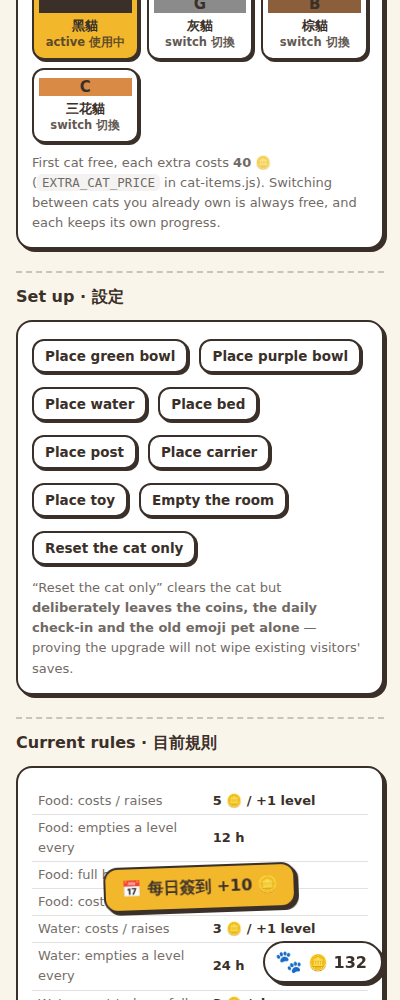
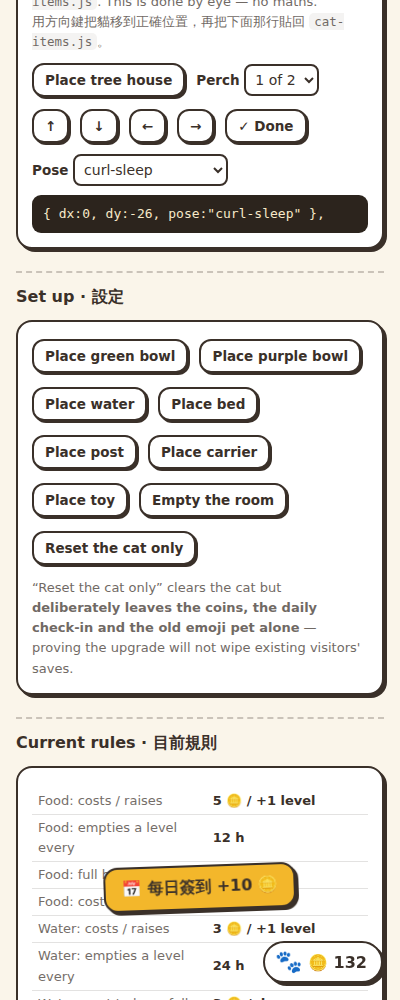
Funding statement sitewide, social links, hide placeholder-emoji foods
FUNDING STATEMENT
Adds the required acknowledgement to every page in a bordered, full
opacity bar rather than the existing faded 11.5px footer text, since it
is a compliance statement and the brief was that it be visible. Injected
from pet-shared.js so there is one edit point and it reaches any page
added later. The Chinese wording renders in both language modes because
it is prescribed text, not a translation; English is added alongside it
only in English mode. Text lives in foods-data.js with a note not to
reword the Chinese without checking the grant paperwork.

SOCIAL LINKS
SOCIAL list in foods-data.js. Entries with an empty url hide themselves,
matching the existing cookbook-link pattern, so they can be filled in
one at a time without ever showing a dead link. All four ship empty
pending the real addresses. Clicks fire the existing analytics hook.

Positioning bug found and fixed: the bar used a trailing margin-bottom
for clearance, which collapses out of the document, so at 430x900 the
floating pet button sat on top of the LINE link and made it
unclickable. Replaced with a real spacer element, which always reserves
its height. Verified no link is covered at 390, 430 or 900 wide.

HIDING FOODS WITHOUT A REAL EMOJI
Adds an optional `hidden` flag: the food stays in the master list with
its data and pairings intact but is shown nowhere. Applied to the four
foods represented by geometric shapes rather than food: turnip cake
[…]

Changed region(s): [[0.06, 0.0, 0.93, 0.248], [0.09, 0.961, 0.18, 0.992]]

diff --git a/foods-data.js b/foods-data.js
@@ -57,6 +57,14 @@ const VENUES = [
              auto-generates one from the nutrition numbers.
    tip       OPTIONAL one-line fun fact shown after a 營養大對決
              question that uses this food.
+   hidden    OPTIONAL. Set  hidden: true  to keep a food in this list but
+             STOP SHOWING IT anywhere in either app. Its data stays here
+             untouched, so nothing else breaks, and deleting that one
+             line brings it straight back.
+             Currently used for foods that have no suitable emoji — a
+             plain coloured square standing in for a food looks
+             unfinished, so those foods wait here until they have a
+             proper picture.
    --------------------------------------------------------------- */
 const FOODS = [
 
@@ -88,6 +96,9 @@ const FOODS = [
     wholeGrain: true },
 
   { id: "luobogao",  zh: "蘿蔔糕",     en: "Turnip cake", emoji: "◻",
+    /* HIDDEN: ◻ is a plain white square — there is no turnip-cake emoji.
+       Delete the `hidden` line below to show this food again. */
+    hidden: true,
     role: "main", venues: ["breakfast"],
     nutrition: { protein: 4,  fiber: 1.5, sodium: 500,  calcium: 40 },
     wholeGrain: false, serving: "2片" },
@@ -203,16 +214,25 @@ const FOODS = [
     wholeGrain: false },
 
   { id: "dougan",    zh: "豆干",       en: "Dried tofu", emoji: "🟫",
+    /* HIDDEN: 🟫 is a plain brown square — there is no dried-tofu emoji.
+       Delete the `hidden` line below to show this food again. */
+    hidden: true,
     role: "addon", venues: ["noodle"],
     nutrition: { protein: 10, fiber: 1,   sodium: 300,  calcium: 150 },
     wholeGrain: false },
 
   { id: "seaweed",   zh: "海帶",       en: "Seaweed", emoji: "🪸",
+    /* HIDDEN: 🪸 is CORAL, not seaweed, and is new enough to show as an empty box on older phones.
+       Delete the `hidden` line below to show this food again. */
+    hidden: true,
     role: "addon", venues: ["noodle"],
     nutrition: { protein: 2,  fiber: 2,   sodium: 350,  calcium: 80 },
     wholeGrain: false },
 
   { id: "tofu",      zh: "嫩豆腐",     en: "Soft tofu", emoji: "⬜",
+    /* HIDDEN: ⬜ is a plain white square — there is no tofu emoji.
+       Delete the `hidden` line below to show this food again. */
+    hidden: true,
     role: "addon", venues: ["noodle", "conv"],
     nutrition: { protein: 8,  fiber: 0.5, sodium: 30,   calcium: 120 },
     wholeGrain: false },
@@ -304,6 +324,59 @@ const SHARE = {
   hashtag: "#外食也能吃得好",   /* ✏ EDIT HERE: your campaign hashtag */
   appName: { zh: "校園小夥伴", en: "Campus Buddy" },
 };
+
+
+/* ---------------------------------------------------------------
+   FUNDING STATEMENT — shown prominently on EVERY page.
+   ---------------------------------------------------------------
+   This is the required funding acknowledgement. It appears in a
+   bordered bar at the bottom of every page, at full opacity — not as
+   faded small print — because it is a compliance statement, not a
+   footnote.
+
+   The Chinese wording shows in BOTH language modes, because that exact
+   sentence is the official required text. The English line is an added
+   courtesy translation, shown only in English mode.
+
+   ⚠ Do not reword the Chinese line without checking with whoever
+   handles the grant paperwork. It is prescribed wording.
+   --------------------------------------------------------------- */
+const FUNDING = {
+  zh: "經費由國民健康署運用菸品健康福利捐支應",
+  en: "Funded by the Health Promotion Administration, Ministry of Health and Welfare, through the Tobacco Health and Welfare Surcharge.",
+};
+
+
+/* ---------------------------------------------------------------
+   SOCIAL MEDIA LINKS — shown next to the funding statement.
+   ---------------------------------------------------------------
+   ✏ EDIT HERE. Put your real address inside the quotes after url:.
+
+   A link whose url is still "" is HIDDEN automatically, so an
+   unfinished entry never shows as a dead link. Fill them in one at a
+   time as the accounts go live.
+
+   To ADD one: copy a line, change the label and the url.
+   To REMOVE one: delete its line (or just empty its url).
+   --------------------------------------------------------------- */
+const SOCIAL = [
+  { id: "instagram", label: "Instagram", icon: "📷", url: "" },  /* e.g. "https://www.instagram.com/youraccount" */
+  { id: "facebook",  label: "Facebook",  icon: "👍", url: "" },
+  { id: "line",      label: "LINE",      icon: "💬", url: "" },  /* e.g. your LINE official account */
+  { id: "youtube",   label: "YouTube",   icon: "▶", url: "" },
+];
+
+
+/* ---------------------------------------------------------------
+   Helper: the foods that should actually be SHOWN to visitors.
+   ---------------------------------------------------------------
+   A food marked  hidden: true  stays in the master list above (so its
+   data, pairings and nutrition are all preserved) but never appears in
+   either app. Both apps call this instead of using FOODS directly.
+   --------------------------------------------------------------- */
+function visibleFoods() {
+  return FOODS.filter(function (f) { return !f.hidden; });
+}
 
 
 /* ---------------------------------------------------------------

diff --git a/pet-shared.js b/pet-shared.js
@@ -389,6 +389,31 @@
     opacity:0;pointer-events:none;transition:opacity .2s, transform .2s}
   .bd-toast.on{opacity:1;transform:translateX(-50%) rotate(-2deg) translateY(-6px)}
   @media (prefers-reduced-motion:reduce){.bd-toast{transition:none}.bd-pet{animation:none}.bd-pet.eat{animation:none}}
+
+  /* ---------- funding statement + social links (every page) ----------
+     Deliberately NOT faded small print: this is a required funding
+     acknowledgement, so it gets a real border, full opacity and a
+     readable size. The bottom margin keeps it clear of the floating
+     pet button, which sits fixed in the bottom-right corner. */
+  .bd-fund{max-width:520px;margin:26px auto 0;padding:14px 16px;
+    background:var(--card,#fff);border:2.5px solid var(--ink,#3A3029);border-radius:16px;
+    box-shadow:3px 3px 0 var(--ink,#3A3029);text-align:center;
+    font-family:inherit;color:var(--ink,#3A3029)}
+  .bd-fund .bd-fund-logo{height:34px;margin-bottom:8px;display:block;margin-left:auto;margin-right:auto}
+  .bd-fund .bd-fund-zh{font-size:14px;font-weight:800;line-height:1.6}
+  .bd-fund .bd-fund-en{font-size:12px;line-height:1.55;opacity:.8;margin-top:5px}
+  .bd-fund .bd-social{display:flex;flex-wrap:wrap;justify-content:center;gap:8px;margin-top:12px}
+  .bd-fund .bd-social a{display:inline-flex;align-items:center;gap:5px;
+    border:2px solid var(--ink,#3A3029);border-radius:999px;background:var(--paper,#FAF5EA);
+    padding:6px 13px;font-size:13px;font-weight:800;text-decoration:none;
+    color:var(--ink,#3A3029);box-shadow:2px 2px 0 var(--ink,#3A3029)}
+  .bd-fund .bd-social a:active{transform:translate(2px,2px);box-shadow:0 0 0 var(--ink,#3A3029)}
+  /* A real spacer element, not a bottom margin. A trailing margin can
+     collapse out of the document, which let the floating pet button sit
+     on top of the social links and made them unclickable. An element
+     with height always reserves its space. */
+  .bd-fund-spacer{height:122px}
+  @media (max-width:420px){ .bd-fund{margin:20px 12px 0} }
   `;
 
   let toastTimer = null;
@@ -401,6 +426,40 @@
     toastTimer = setTimeout(() => el.classList.remove("on"), 1800);
   }
 
+  /* ------------------------------------------------------------------
+     The funding statement + social links, shown at the bottom of every
+     page. Both come from foods-data.js so there is ONE place to edit
+     them, and they then appear everywhere automatically — including on
+     any page added later.
+     ------------------------------------------------------------------ */
+  function fundingHTML() {
+    if (typeof FUNDING === "undefined") return "";
+
+    /* The Chinese line shows in BOTH languages: it is the official
+       required wording, not a translation of something. */
+    let html = "";
+    /* An optional HPA logo. If images/hpa-logo.png is not there, the
+       onerror hides it and nothing looks broken. */
+    html += `<img class="bd-fund-logo" src="images/hpa-logo.png" alt=""
+               onerror="this.style.display='none'">`;
+    html += `<div class="bd-fund-zh">${FUNDING.zh}</div>`;
+    if (lang === "en" && FUNDING.en) {
+      html += `<div class="bd-fund-en">${FUNDING.en}</div>`;
+    }
+
+    /* Social links — only the ones that actually have an address yet. */
+    if (typeof SOCIAL !== "undefined") {
+      const live = SOCIAL.filter(x => x && x.url && x.url.trim() !== "");
+      if (live.length) {
+        html += `<div class="bd-social">` + live.map(x =>
+          `<a href="${x.url}" target="_blank" rel="noopener"
+              onclick="if(window.Buddy&&Buddy.track)Buddy.track('social-${x.id}')"
+           >${x.icon || "🔗"} ${x.label}</a>`).join("") + `</div>`;
+      }
+    }
+    return html;
+  }
+
   function fab() {
     const d = load();
     const ap = activePet(d);
@@ -410,6 +469,7 @@
 
   function render() {
     const f = $(".bd-fab"); if (f) f.innerHTML = fab();
+    const fu = $(".bd-fund"); if (fu) fu.innerHTML = fundingHTML();
     const p = $(".bd-panel"); if (p && $(".bd-overlay").classList.contains("on")) p.innerHTML = panelHTML();
   }
 
@@ -511,6 +571,20 @@
   /* ---- boot: inject styles + widget, grant daily login bonus ---- */
   function boot() {
     const st = document.createElement("style"); st.textContent = css; document.head.appendChild(st);
+    /* Funding bar goes at the END of the page content, so it reads as a
+       footer. Appending to <body> puts it after whatever wrapper the
+       page uses, without each page needing its own copy. */
+    if (typeof FUNDING !== "undefined") {
+      const fu = document.createElement("div");
+      fu.className = "bd-fund";
+      fu.innerHTML = fundingHTML();
+      document.body.appendChild(fu);
+      /* keeps the floating pet button clear of the links above */
+      const sp = document.createElement("div");
+      sp.className = "bd-fund-spacer";
+      document.body.appendChild(sp);
+    }
+
     const b = document.createElement("button"); b.className = "bd-fab"; b.setAttribute("aria-label", "Campus Buddy");
     b.onclick = openPanel; document.body.appendChild(b);
     const ov = document.createElement("div"); ov.className = "bd-overlay";

diff --git a/pair-it.html b/pair-it.html
@@ -245,7 +245,7 @@ function startHTML(){
        <span class="e">${F(m.items[0]).emoji}</span>${lang==="zh"?m.zh:m.en}</button>`).join("");
   const venueTabs = VENUES.map(v =>
     `<button class="tab ${v.id===curVenue?"on":""}" onclick="setVenue('${v.id}')">${v.emoji} ${lang==="zh"?v.zh:v.en}</button>`).join("");
-  const mains = FOODS.filter(f => (f.role==="main"||f.role==="both") && f.venues.includes(curVenue))
+  const mains = visibleFoods().filter(f => (f.role==="main"||f.role==="both") && f.venues.includes(curVenue))
     .map(f => `<button class="chip" onclick="addFood('${f.id}',this)"><span class="e">${f.emoji}</span>${nm(f)}</button>`).join("");
   return `
     <div class="card"><h2>${t("startPreset")}</h2><div class="chipgrid">${presets}</div></div>
@@ -276,12 +276,15 @@ function suggestions(){
   const vset = mealVenues();
   const inMeal = new Set(meal);
   const out = [];
-  /* 1. explicit pairings for each item in the meal */
+  /* 1. explicit pairings for each item in the meal.
+        A pairing may name a food that is currently hidden (no good emoji
+        yet) — skip those, so hiding a food never leaves a blank chip. */
   meal.forEach(id => (PAIRINGS[id]||[]).forEach(aid => {
-    if(!inMeal.has(aid) && !out.includes(aid)) out.push(aid);
+    const af = F(aid);
+    if(af && !af.hidden && !inMeal.has(aid) && !out.includes(aid)) out.push(aid);
   }));
   /* 2. fallback: addons that share a venue with the meal */
-  FOODS.forEach(f => {
+  visibleFoods().forEach(f => {
     if((f.role==="addon"||f.role==="both") && !inMeal.has(f.id) && !out.includes(f.id)
        && f.venues.some(v=>vset.has(v))) out.push(f.id);
   });
@@ -332,7 +335,7 @@ function closeBrowse(){ document.getElementById("browOv").classList.remove("on")
 function renderBrowseList(){
   const q=(document.getElementById("browSearch").value||"").toLowerCase().trim();
   const venueName=id=>{const v=VENUES.find(x=>x.id===id);return v?(lang==="zh"?v.zh:v.en):id;};
-  const list=FOODS
+  const list=visibleFoods()
     .filter(f=>!q || f.zh.toLowerCase().includes(q) || f.en.toLowerCase().includes(q))
     .sort((a,b)=>nm(a).localeCompare(nm(b), lang==="zh"?"zh-Hant":"en"));
   document.getElementById("browList").innerHTML=list.map(f=>{

diff --git a/showdown.html b/showdown.html
@@ -166,7 +166,9 @@ function toggleLang(){
 
 /* ===================== quiz generation ===================== */
 function shuffle(a){for(let i=a.length-1;i>0;i--){const j=Math.floor(Math.random()*(i+1));[a[i],a[j]]=[a[j],a[i]];}return a;}
-const pool=()=>FOODS.filter(f=>f.nutrition);
+/* Foods the quiz may use: must have nutrition numbers AND not be hidden
+   (a hidden food has no proper emoji yet — see foods-data.js). */
+const pool=()=>visibleFoods().filter(f=>f.nutrition);
 
 /* Build one comparison question with a clear winner */
 function makeCompareQ(usedPairs){
